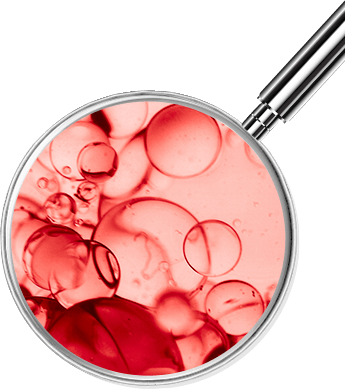
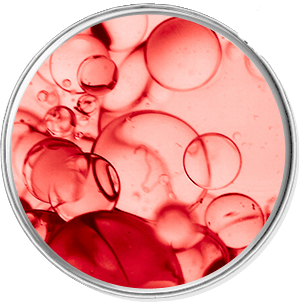
feat: add fixes to layout

diff --git a/EAN/style/style.css b/EAN/style/style.css
@@ -15,6 +15,8 @@ body {
   overflow: hidden;
   color: #2b2a29;
   background-color: #fff;
+  padding-left: 30px;
+  padding-right: 30px;
 }
 #es-vichy.es-vichy * {
   box-sizing: border-box;
@@ -120,7 +122,7 @@ body {
   display: flex;
   justify-content: flex-end;
   align-items: center;
-  min-height: 365px;
+  min-height: 420px;
 }
 #es-vichy.es-vichy .es-kv__title {
   margin: 0;
@@ -180,7 +182,7 @@ body {
 }
 #es-vichy.es-vichy .es-info__wrapper {
   min-height: 382px;
-  background: #fff url(../images/info-image.png) -150px 20px no-repeat;
+  background: #fff url(../images/info-image.png) -160px 0px no-repeat;
   background-size: contain;
 }
 #es-vichy.es-vichy .es-info__steps {
@@ -229,7 +231,7 @@ body {
 }
 #es-vichy.es-vichy .es-info__text--3 {
   margin-top: 40px;
-  margin-left: 45%;
+  margin-left: 35%;
 }
 #es-vichy.es-vichy .es-info__text--3::before {
   content: '';
@@ -241,8 +243,8 @@ body {
   left: -45px;
 }
 #es-vichy.es-vichy .es-info__text--4 {
-  margin-top: 60px;
-  margin-left: 30%;
+  margin-top: -11px;
+  margin-left: 10%;
 }
 #es-vichy.es-vichy .es-info__text--4::before {
   content: '';
@@ -311,6 +313,20 @@ body {
   padding: 0 12px;
   margin: 0 -24px;
 }
+#es-vichy.es-vichy .es-ingr__container::before {
+  content: "";
+  position: absolute;
+  top: -20%;
+  right: -20%;
+  width: 90%;
+  height: 166px;
+  background-image: url("../images/handle.png");
+  background-repeat: no-repeat;
+  background-position: center right;
+}
+#es-vichy.es-vichy .es-ingr__slides {
+  padding-top: 30px;
+}
 #es-vichy.es-vichy .es-ingr__slides--desktop {
   display: none;
 }
@@ -322,7 +338,7 @@ body {
   margin-bottom: 32px;
 }
 #es-vichy.es-vichy .es-ingr__single--1 {
-  margin-top: -127px;
+  /* margin-top: -127px; */
 }
 #es-vichy.es-vichy .es-ingr__image {
   position: relative;
@@ -336,9 +352,12 @@ body {
 #es-vichy.es-vichy .es-ingr__img--mobile {
   max-width: 208px;
 }
+#es-vichy.es-vichy .es-ingr__img--desktop {
+  display: none;
+}
 #es-vichy.es-vichy .es-ingr__img--mobile-big {
-  margin-top: -65px;
-  max-width: 240px;
+  /* margin-top: -65px;
+  max-width: 240px; */
 }
 #es-vichy.es-vichy .es-ingr__text {
   margin: 0;
@@ -462,6 +481,9 @@ body {
   margin: 0 auto;
   max-height: 290px;
   max-width: 220px;
+}
+#es-vichy.es-vichy .es-cross__img--3 {
+  margin-right: -50px;
 }
 #es-vichy.es-vichy .es-cross__single {
   max-width: 270px;
@@ -771,7 +793,7 @@ body {
   margin-bottom: 40px;
 }
 #es-vichy.es-vichy .es-compare__single {
-  max-width: 120px;
+  max-width: 125px;
 }
 #es-vichy.es-vichy .es-compare__single-image {
   max-width: 100%;
@@ -883,9 +905,86 @@ body {
   -moz-column-gap: 4px;
   column-gap: 4px;
 }
+@media screen and (min-width: 330px) {
+  #es-vichy.es-vichy .es-info__text--2 {
+    margin-left: 35%;
+  }
+  #es-vichy.es-vichy .es-info__text--3 {
+    margin-left: 40%;
+    margin-top: 63px;
+  }
+  #es-vichy.es-vichy .es-info__text--4 {
+    margin-top: 10px;
+    margin-left: 17%;
+  }
+}
+@media screen and (min-width: 335px) {
+  #es-vichy.es-vichy .es-info__text--2 {
+    margin-left: 38%;
+  }
+  #es-vichy.es-vichy .es-info__text--3 {
+    margin-left: 40%;
+    margin-top: 88px;
+  }
+  #es-vichy.es-vichy .es-info__text--4 {
+    margin-top: 10px;
+    margin-left: 9%;
+  }
+  #es-vichy.es-vichy .es-ingr__container::before {
+    top: -20%;
+    right: -11%;
+  }
+}
+@media screen and (min-width: 350px) {
+  #es-vichy.es-vichy .es-info__text--2 {
+    margin-left: 40%;
+  }
+  #es-vichy.es-vichy .es-info__text--3 {
+    margin-left: 48%;
+    margin-top: 75px;
+    margin-bottom: 90px;
+  }
+  #es-vichy.es-vichy .es-info__text--4 {
+    margin-left: 13%;
+  }
+}
 @media screen and (min-width: 400px) {
+  #es-vichy.es-vichy .es-ingr__container::before {
+    top: -20%;
+    right: -5%;
+  }
   #es-vichy.es-vichy .es-kv__content {
     min-height: 625px;
+  }
+  #es-vichy.es-vichy .es-info__text--2 {
+    margin-left: 40%;
+    margin-top: 40px;
+    margin-bottom: 0;
+  }
+  #es-vichy.es-vichy .es-info__text--3 {
+    margin-left: 49%;
+    margin-bottom: 100px;
+  }
+  #es-vichy.es-vichy .es-info__text--4 {
+    margin-left: 20%;
+  }
+}
+@media screen and (min-width: 430px) {
+  #es-vichy.es-vichy .es-ingr__container::before {
+    top: -20%;
+    right: -1%;
+  }
+}
+@media screen and (min-width: 450px) {
+  #es-vichy.es-vichy .es-info__text--2 {
+    margin-left: 34%;
+  }
+  #es-vichy.es-vichy .es-info__text--3 {
+    margin-left: 42%;
+  }
+  #es-vichy.es-vichy .es-ingr__container::before {
+    top: -18%;
+    right: 0%;
   }
 }
 @media screen and (min-width: 500px) {
@@ -894,6 +993,19 @@ body {
   }
   #es-vichy.es-vichy .es-disclaimer__img--desktop {
     display: block;
+  }
+  #es-vichy.es-vichy .es-info__text--2 {
+    margin-left: 29%;
+  }
+  #es-vichy.es-vichy .es-info__text--3 {
+    margin-left: 36%;
+  }
+  #es-vichy.es-vichy .es-info__text--4 {
+    margin-left: 14%;
+  }
+  #es-vichy.es-vichy .es-ingr__container::before {
+    top: -19%;
+    right: 8%;
   }
 }
 @media screen and (min-width: 550px) {
@@ -921,6 +1033,10 @@ body {
   #es-vichy.es-vichy .es-dermatologits__image {
     display: none;
   }
+  #es-vichy.es-vichy .es-ingr__container::before {
+    top: -19%;
+    right: 12%;
+  }
 }
 @media screen and (min-width: 560px) {
   #es-vichy.es-vichy .es-kv {
@@ -946,16 +1062,17 @@ body {
     background-size: contain;
   }
   #es-vichy.es-vichy .es-info__text--1 {
-    margin-left: 26%;
+    margin-left: 31%;
   }
   #es-vichy.es-vichy .es-info__text--2 {
-    margin-left: 45%;
+    margin-left: 47%;
   }
   #es-vichy.es-vichy .es-info__text--3 {
-    margin-left: 45%;
+    margin-left: 50%;
   }
   #es-vichy.es-vichy .es-info__text--4 {
-    margin-left: 40%;
+    margin-left: 31%;
+    margin-top: -23px;
   }
   #es-vichy.es-vichy .es-cross__container {
     gap: 10px;
@@ -977,6 +1094,15 @@ body {
   }
 }
 @media screen and (min-width: 600px) {
+  #es-vichy.es-vichy .es-ingr__img--mobile {
+    display: none;
+  }
+  #es-vichy.es-vichy .es-ingr__img--desktop {
+    display: block;
+  }
+  #es-vichy.es-vichy .es-ingr__container::before {
+    display: none;
+  }
   #es-vichy.es-vichy .es-slick-carousel--mobile,
   #es-vichy.es-vichy .slick-button-prev,
   #es-vichy.es-vichy .slick-button-next,
@@ -1061,6 +1187,40 @@ body {
   #es-vichy.es-vichy .slick-button-2-prev,
   #es-vichy.es-vichy .slick-button-2-next {
     display: none;
+  }
+}
+@media screen and (min-width: 650px) {
+  #es-vichy.es-vichy .es-info__wrapper {
+    background: #fff url('../images/info-image.png') -52px -20px no-repeat;
+    background-size: contain;
+  }
+  #es-vichy.es-vichy .es-info__text--1 {
+    margin-left: 29%;
+  }
+  #es-vichy.es-vichy .es-info__text--2 {
+    margin-left: 44%;
+  }
+  #es-vichy.es-vichy .es-info__text--3 {
+    margin-left: 46%;
+  }
+  #es-vichy.es-vichy .es-info__text--4 {
+    margin-top: -20px;
+    margin-left: 27%;
+  }
+}
+@media screen and (min-width: 700px) {
+  #es-vichy.es-vichy .es-info__text--1 {
+    margin-left: 24%;
+  }
+  #es-vichy.es-vichy .es-info__text--2 {
+    margin-left: 39%;
+  }
+  #es-vichy.es-vichy .es-info__text--3 {
+    margin-left: 41%;
+  }
+  #es-vichy.es-vichy .es-info__text--4 {
+    margin-top: -30px;
+    margin-left: 27%;
   }
 }
 @media screen and (min-width: 768px) {
@@ -1228,7 +1388,7 @@ body {
     max-width: 250px;
   }
   #es-vichy.es-vichy .es-cross__packshot--2::before {
-    left: 33%;
+    left: 21%;
     top: -20px;
   }
   #es-vichy.es-vichy .es-cross__packshot--3::before {
@@ -1292,6 +1452,9 @@ body {
   #es-vichy.es-vichy .es-cross__packshot--3::before {
     top: -50px;
     font-size: 200px;
+  }
+  #es-vichy.es-vichy .es-cross__single--middle {
+    margin-left: -30px;
   }
   #es-vichy.es-vichy .es-compare__mobile-wrapper {
     flex-wrap: nowrap;

diff --git a/EAN.html b/EAN.html
@@ -310,7 +310,12 @@
               <img
                 src="./EAN/images/ingr-4.png"
                 alt="bio-peptyd"
-                class="es-ingr__img es-ingr__img--4"
+                class="es-ingr__img es-ingr__img--mobile es-ingr__img--4"
+              />
+              <img
+                src="./EAN/images/ingr-4-d.png"
+                alt="bio-peptyd"
+                class="es-ingr__img es-ingr__img--desktop es-ingr__img--4 es-ingr__img--mobile-big"
               />
               <p class="es-ingr__label es-ingr__label--4">bio-peptyd</p>
             </div>
@@ -710,7 +715,7 @@
               >
             </div>
           </div>
-          <div class="es-cross__single">
+          <div class="es-cross__single es-cross__single--middle">
             <div class="es-cross__packshot es-cross__packshot--2">
               <img
                 src="./EAN/images/cross-2.png"
